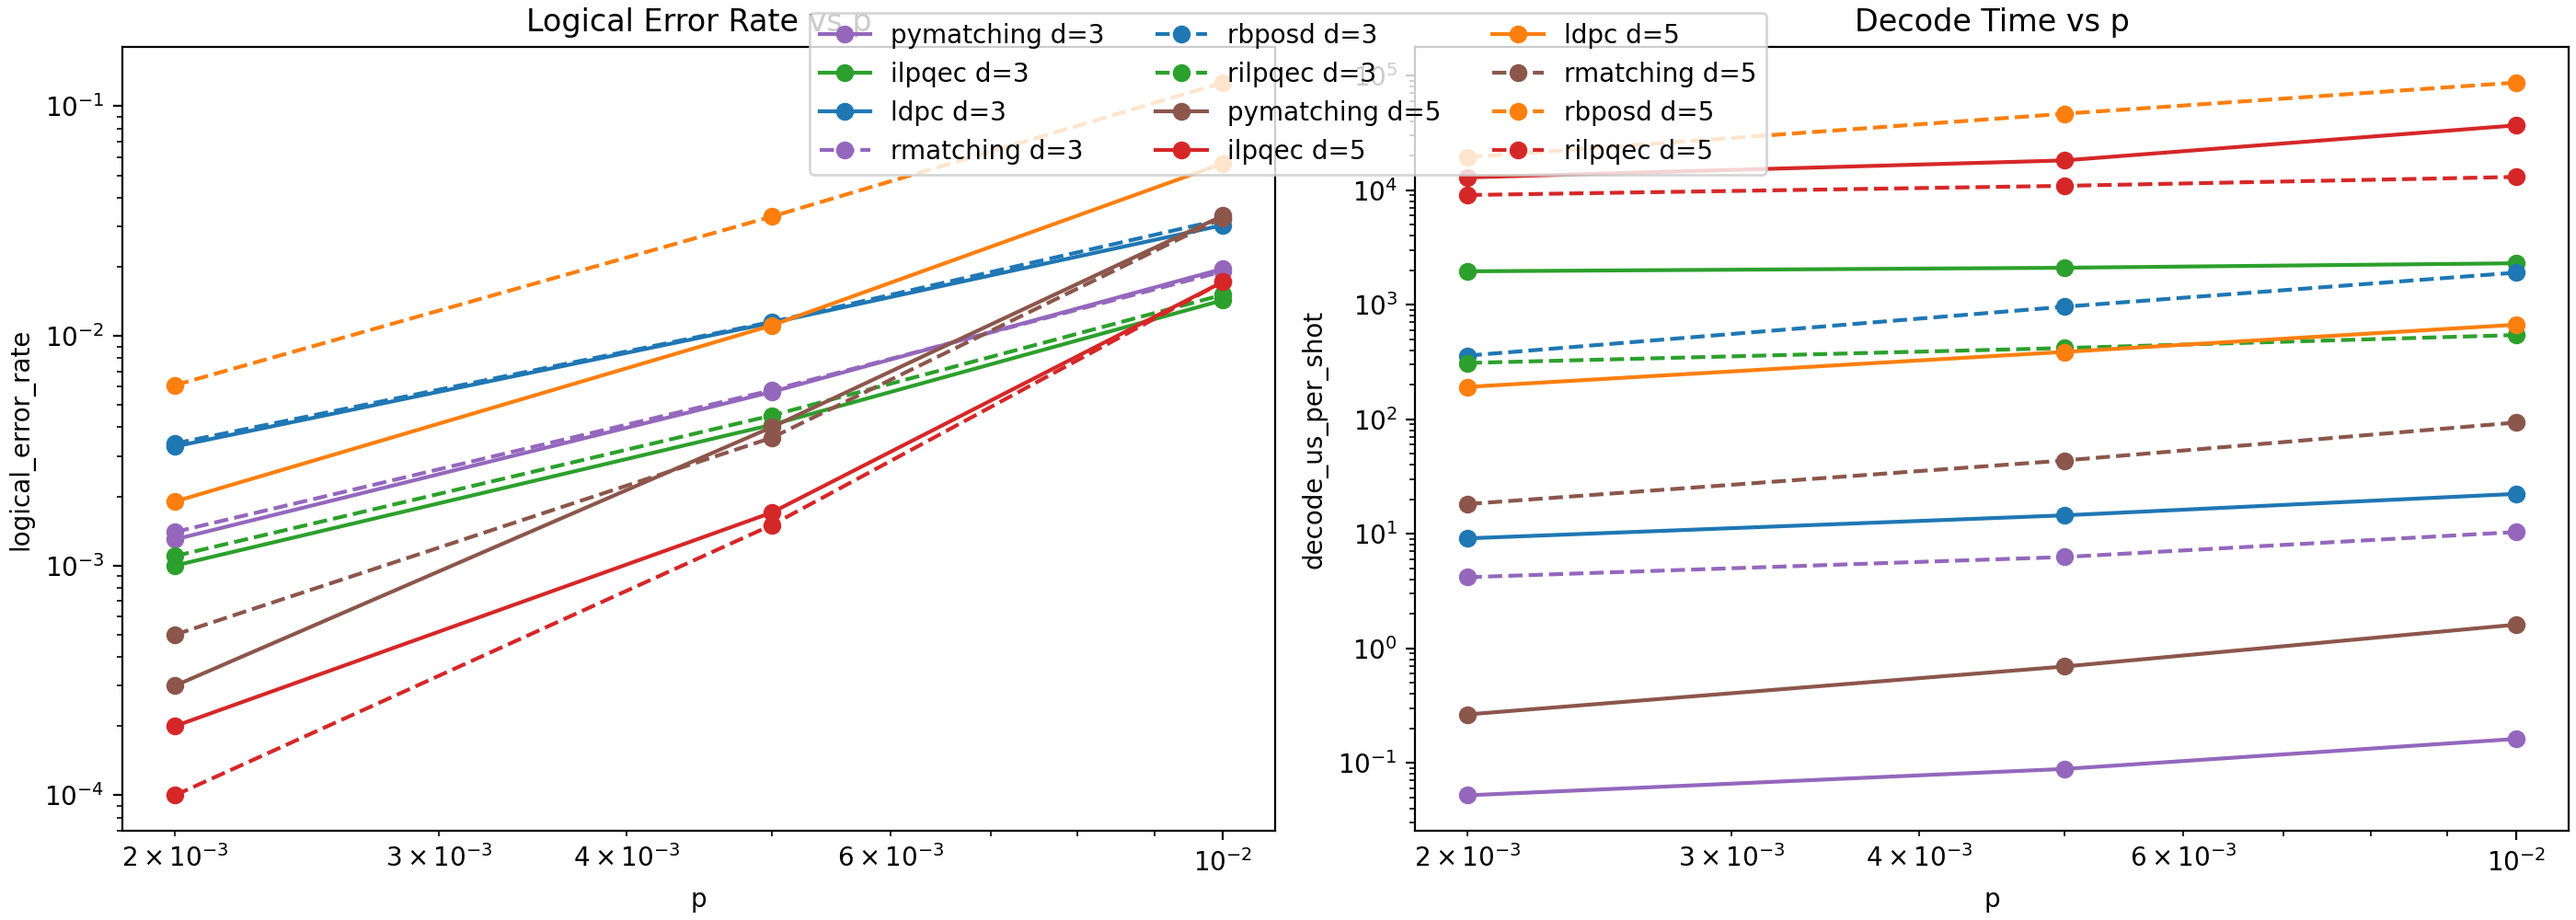
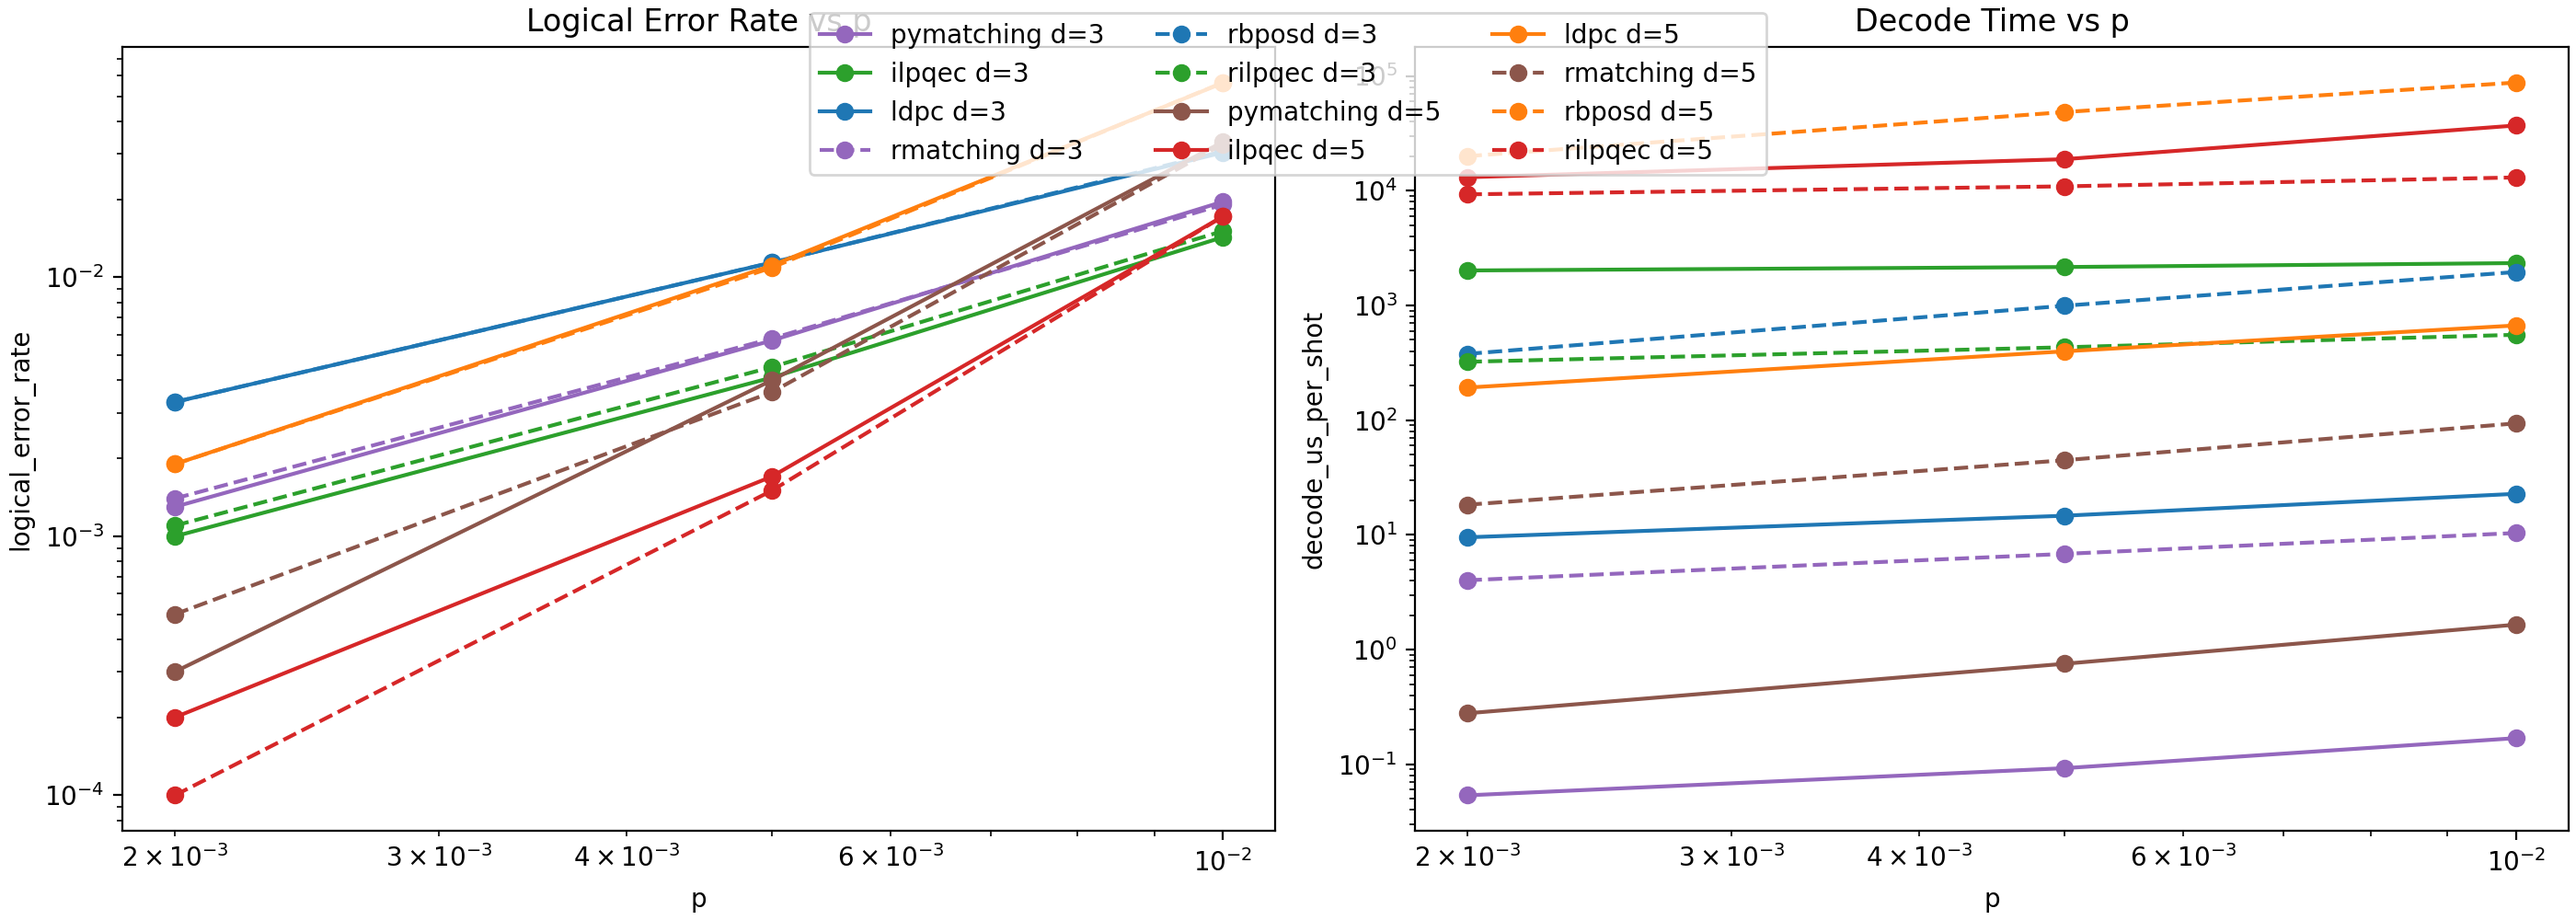
fix: apply osd residuals on top of bp decisions

diff --git a/rbposd/src/osd.rs b/rbposd/src/osd.rs
@@ -6,10 +6,36 @@ use crate::vector::{Correction, Syndrome};
 pub(crate) fn decode_osd0(
     pcm: &ParityCheckMatrix,
     syndrome: &Syndrome,
+    base_correction: &Correction,
     reliability: &[f64],
 ) -> Result<Correction, DecodeError> {
+    let target_syndrome = xor_syndromes(&pcm.multiply(base_correction), syndrome);
     let column_order = sort_columns_by_unreliability(reliability);
-    solve_with_column_order(pcm, syndrome, &column_order).map_err(|_| DecodeError::NoOsdSolution)
+    let residual =
+        solve_with_column_order(pcm, &target_syndrome, &column_order).map_err(|_| {
+            DecodeError::NoOsdSolution
+        })?;
+    Ok(xor_corrections(base_correction, &residual))
+}
+
+fn xor_syndromes(lhs: &Syndrome, rhs: &Syndrome) -> Syndrome {
+    Syndrome::from(
+        lhs.as_slice()
+            .iter()
+            .zip(rhs.as_slice().iter())
+            .map(|(a, b)| *a ^ *b)
+            .collect::<Vec<_>>(),
+    )
+}
+
+fn xor_corrections(lhs: &Correction, rhs: &Correction) -> Correction {
+    Correction::from(
+        lhs.as_slice()
+            .iter()
+            .zip(rhs.as_slice().iter())
+            .map(|(a, b)| *a ^ *b)
+            .collect::<Vec<_>>(),
+    )
 }
 
 #[cfg(test)]
@@ -24,9 +50,10 @@ mod tests {
         let pcm =
             ParityCheckMatrix::from_sparse_rows(2, 3, vec![vec![0], vec![1, 2]]).unwrap();
         let syndrome = Syndrome::from(vec![false, true]);
+        let base = Correction::from(vec![false, false, false]);
         let reliability = vec![1.0, 1.0, 2.0];
 
-        let correction = decode_osd0(&pcm, &syndrome, &reliability).unwrap();
+        let correction = decode_osd0(&pcm, &syndrome, &base, &reliability).unwrap();
 
         assert_eq!(correction, Correction::from(vec![false, true, false]));
     }

diff --git a/rbposd/tests/osd.rs b/rbposd/tests/osd.rs
@@ -1,4 +1,4 @@
-use rbposd::{BpOsdDecoder, ChannelModel, DecoderConfig, ParityCheckMatrix, Syndrome};
+use rbposd::{BpOsdDecoder, ChannelModel, Correction, DecoderConfig, ParityCheckMatrix, Syndrome};
 
 #[test]
 fn osd0_recovers_a_valid_solution_when_bp_is_disabled() {
@@ -18,5 +18,26 @@ fn osd0_recovers_a_valid_solution_when_bp_is_disabled() {
 
     assert!(result.used_osd);
     assert_eq!(result.residual_syndrome_weight, 0);
+    assert_eq!(pcm.multiply(&result.correction), syndrome);
+}
+
+#[test]
+fn osd0_uses_the_prior_hard_decision_as_its_base_solution() {
+    let pcm = ParityCheckMatrix::from_sparse_rows(2, 3, vec![vec![0, 1], vec![1, 2]]).unwrap();
+    let mut config = DecoderConfig::default();
+    config.max_bp_iterations = 0;
+
+    let decoder = BpOsdDecoder::new(
+        pcm.clone(),
+        ChannelModel::BitFlipProbabilities(vec![0.1, 0.1, 0.9]),
+        config,
+    )
+    .unwrap();
+
+    let syndrome = Syndrome::from(vec![true, false]);
+    let result = decoder.decode(&syndrome).unwrap();
+
+    assert!(result.used_osd);
+    assert_eq!(result.correction, Correction::from(vec![false, true, true]));
     assert_eq!(pcm.multiply(&result.correction), syndrome);
 }

diff --git a/rbposd/src/decoder.rs b/rbposd/src/decoder.rs
@@ -68,7 +68,12 @@ impl BpOsdDecoder {
             });
         }
 
-        let correction = decode_osd0(&self.pcm, syndrome, &snapshot.reliability)?;
+        let correction = decode_osd0(
+            &self.pcm,
+            syndrome,
+            &snapshot.hard_decision,
+            &snapshot.reliability,
+        )?;
 
         Ok(DecodeResult {
             correction,
